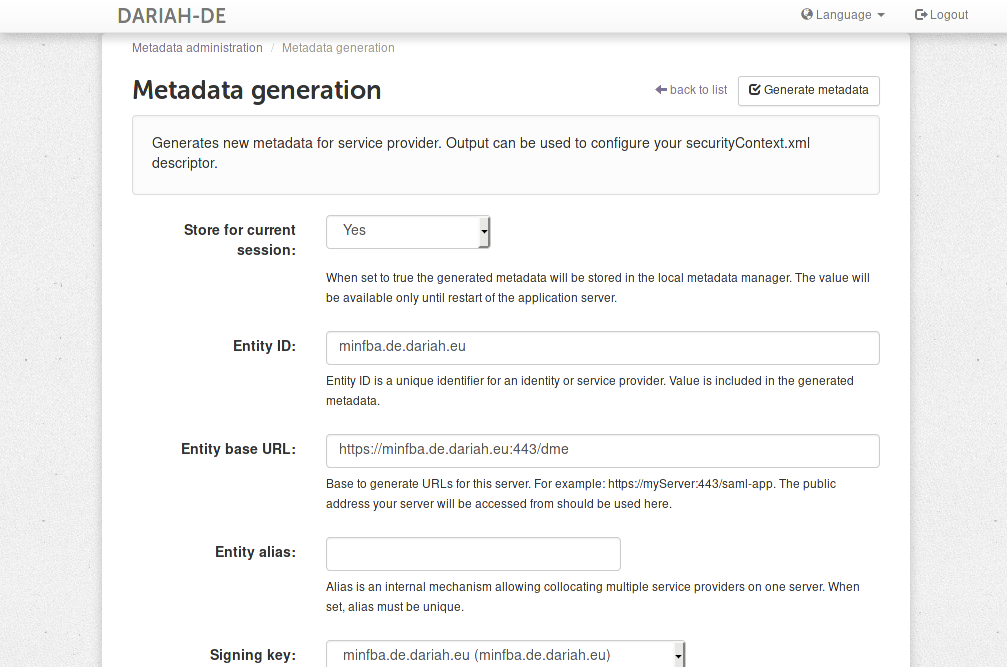
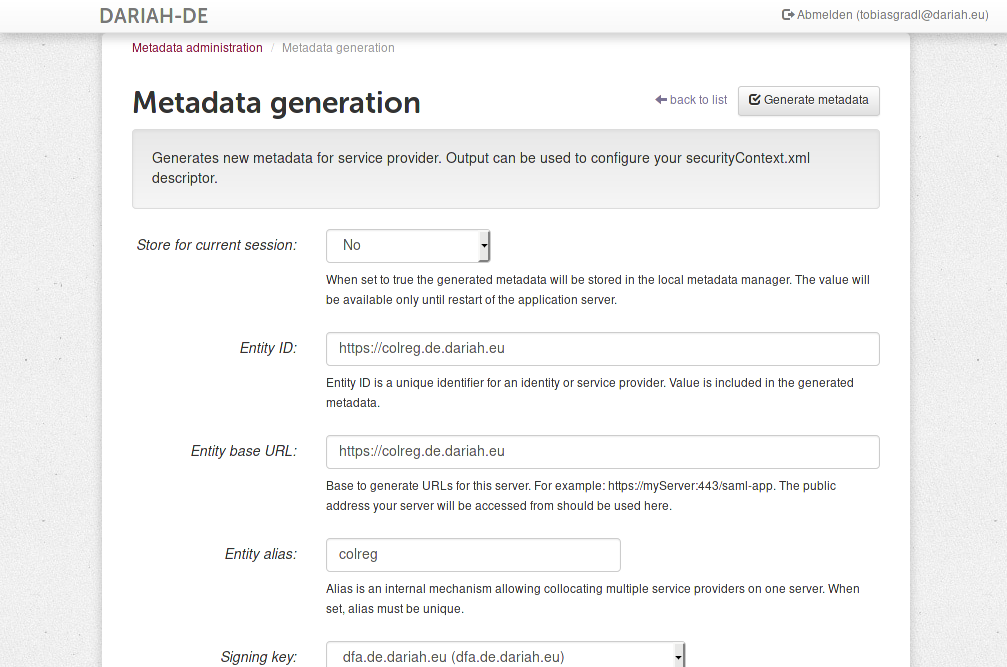
120: Prepare release of 3.5.0 on DFA machine
Task-Url: http://github.com/DARIAH-DE/colreg/issues/120

diff --git a/README.md b/README.md
@@ -98,3 +98,124 @@ Once the CR has successfully started up (check the logs of the respective web ap
 
 ![Generate new SP](https://github.com/DARIAH-DE/colreg/raw/master/img/installation_saml_metatata.png "Generate new SP")
 
+
+
+![SP metadata](https://github.com/DARIAH-DE/colreg/raw/master/img/result_saml_metatata.png "Resulting SP metadata")
+
+### DARIAH Sample configuration
+
+```yaml
+paths:
+  main: /etc/dfa/colreg
+  
+api:
+  dme:
+    baseUrl: https://minfba.de.dariah.eu/schereg/
+    modelLink: ${api.dme.baseUrl}model/editor/%s/
+    models: ${api.dme.baseUrl}api/models
+
+mongo:
+  host: 127.0.0.1
+  port: 27017
+  database: colreg
+  
+auth:
+  local: 
+    forceHttps: true
+    users:  
+      - username: 'admin'
+        passhash: '$2a$10$nbXRnAx5wKurTrbaUkT/MOLXKAJgpT8R71/jujzPwgXXrG.OqlBKW'
+        roles: ["ROLE_ADMINISTRATOR"]
+  saml:
+    keystore:
+      path: ${paths.main}/key/dfa-de-dariah-eu.jks
+      # Uncomment if keystore is protected by password
+      #pass: 'somepass'
+      alias: dfa.de.dariah.eu
+      aliaspass: ''
+    metadata:
+      url: https://www.aai.dfn.de/fileadmin/metadata/dfn-aai-test-metadata.xml
+      \#url: https://www.aai.dfn.de/fileadmin/metadata/dfn-aai-basic-metadata.xml
+    sp:
+      externalMetadata: ${paths.main}/colreg_sp_metadata.xml
+      alias: colreg
+      baseUrl: https://colreg.de.dariah.eu/
+      entityId: colreg.de.dariah.eu
+      securityProfile: metaiop
+      sslSecurityProfile: pkix
+      sslHostnameVerification: default
+      signMetadata: true
+      signingAlgorithm: "http://www.w3.org/2001/04/xmldsig-more#rsa-sha256"
+      signingKey: dfa.de.dariah.eu
+      encryptionKey: dfa.de.dariah.eu
+      tlsKey: dfa.de.dariah.eu
+      requireArtifactResolveSigned: true
+      requireAttributeQuerySigned: false
+      requireLogoutRequestSigned: true
+      requireLogoutResponseSigned: false
+      discovery:
+        enabled: true
+        url: https://wayf.aai.dfn.de/DFN-AAI-Test/wayf
+        \#url: https://auth.dariah.eu/CDS/WAYF
+        return: https://colreg.de.dariah.eu/saml/login/alias/schereg?disco:true
+      allowedNameIds : EMAIL, TRANSIENT, PERSISTENT, UNSPECIFIED, X509_SUBJECT
+    
+      # Attribute querying
+      attributeQuery:
+        enabled: true
+        excludedEndpoints: 
+          urls: ["https://ldap-dariah-clone.esc.rzg.mpg.de/idp/shibboleth", "https://idp.de.dariah.eu/idp/shibboleth"]
+          assumeAttributesComplete: true
+        queryIdp: https://ldap-dariah-clone.esc.rzg.mpg.de/idp/shibboleth
+        #queryIdp: https://idp.de.dariah.eu/idp/shibboleth
+        queryByNameID: false
+        queryAttribute:
+          friendlyName: eduPersonPrincipalName
+          name: urn:oid:1.3.6.1.4.1.5923.1.1.1.6
+          nameFormat: urn:oasis:names:tc:SAML:2.0:attrname-format:uri
+        # For now without parameters bc DARIAH Self Service is broken 
+        incompleteAttributesRedirect: "https://dariah.daasi.de/Shibboleth.sso/Login?target=/cgi-bin/selfservice/ldapportal.pl"
+        #incompleteAttributesRedirect: "https://dariah.daasi.de/Shibboleth.sso/Login?target=/cgi-bin/selfservice/ldapportal.pl%3Fmode%3Dauthenticate%3Bshibboleth%3D1%3Bnextpage%3Dregistration%3Breturnurl%3D{returnUrl}&entityID={entityId}"
+        #incompleteAttributesRedirect: "https://auth.dariah.eu/Shibboleth.sso/Login?target=/cgi-bin/selfservice/ldapportal.pl%3Fmode%3Dauthenticate%3Bshibboleth%3D1%3Bnextpage%3Dregistration%3Breturnurl%3D{returnUrl}&entityID={entityId}"
+      requiredAttributes:
+        - stage: ATTRIBUTES
+          required: true
+          attributeGroup:
+            - check: AND
+              attributes:
+                - friendlyName: mail
+                  name: urn:oid:0.9.2342.19200300.100.1.3
+                  nameFormat: urn:oasis:names:tc:SAML:2.0:attrname-format:uri
+        - stage: ATTRIBUTES
+          required: true
+          attributeGroup:
+            - check: OR
+              attributes:
+                - friendlyName: dariahTermsOfUse
+                  name: urn:oid:1.3.6.1.4.1.10126.1.52.4.15
+                  nameFormat: urn:oasis:names:tc:SAML:2.0:attrname-format:uri
+                  value: Terms_of_Use_v5.pdf
+                - friendlyName: dariahTermsOfUse
+                  name: urn:oid:1.3.6.1.4.1.10126.1.52.4.15
+                  nameFormat: urn:oasis:names:tc:SAML:2.0:attrname-format:uri
+                  value: foobar-service-agreement_version1.pdf     
+        - stage: AUTHENTICATION
+          required: true
+          attributeGroup:
+            - check: AND
+              attributes:
+                - friendlyName: eduPersonPrincipalName
+                  name: urn:oid:1.3.6.1.4.1.5923.1.1.1.6
+                  nameFormat: urn:oasis:names:tc:SAML:2.0:attrname-format:uri
+        - stage: AUTHENTICATION
+          required: false
+          attributeGroup:
+            - check: OPTIONAL
+              attributes:
+                - friendlyName: mail
+                  name: urn:oid:0.9.2342.19200300.100.1.3
+                  nameFormat: urn:oasis:names:tc:SAML:2.0:attrname-format:uri
+                - friendlyName: displayName
+                  name: urn:oid:2.16.840.1.113730.3.1.241
+                  nameFormat: urn:oasis:names:tc:SAML:2.0:attrname-format:uri
+```
